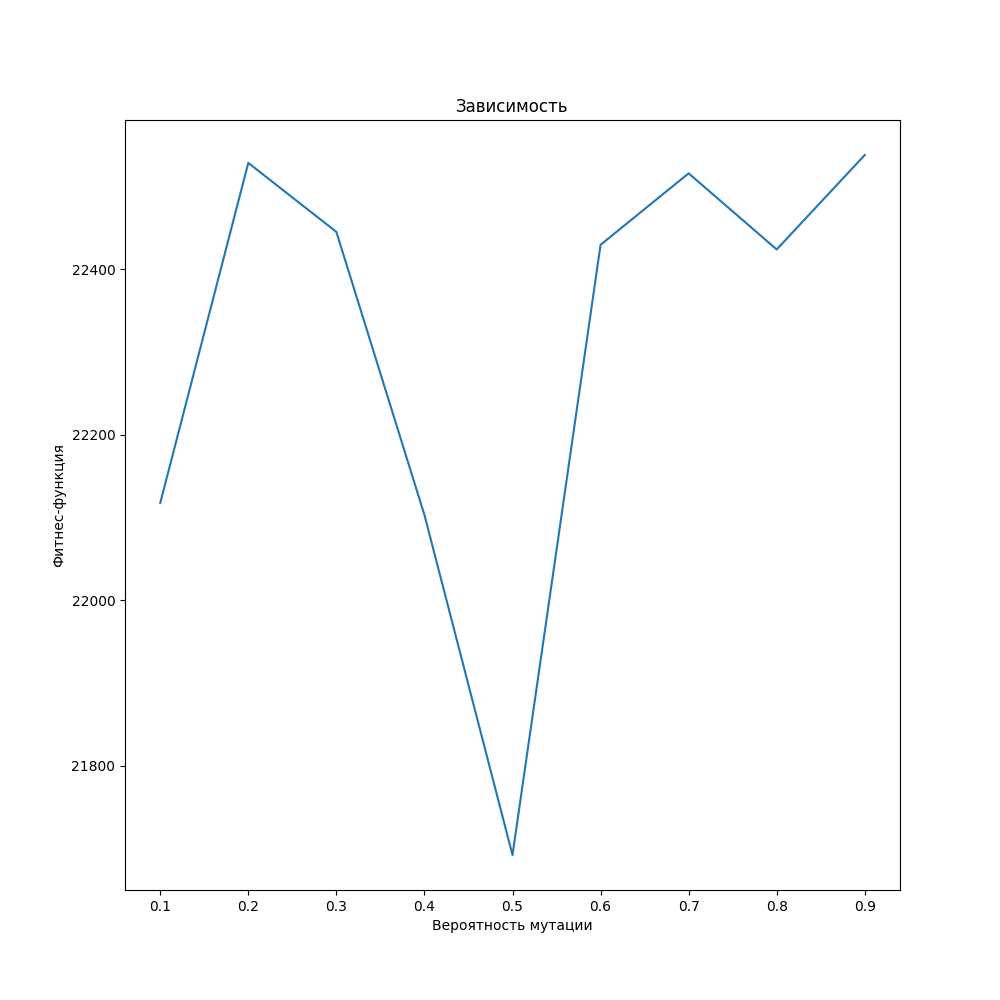
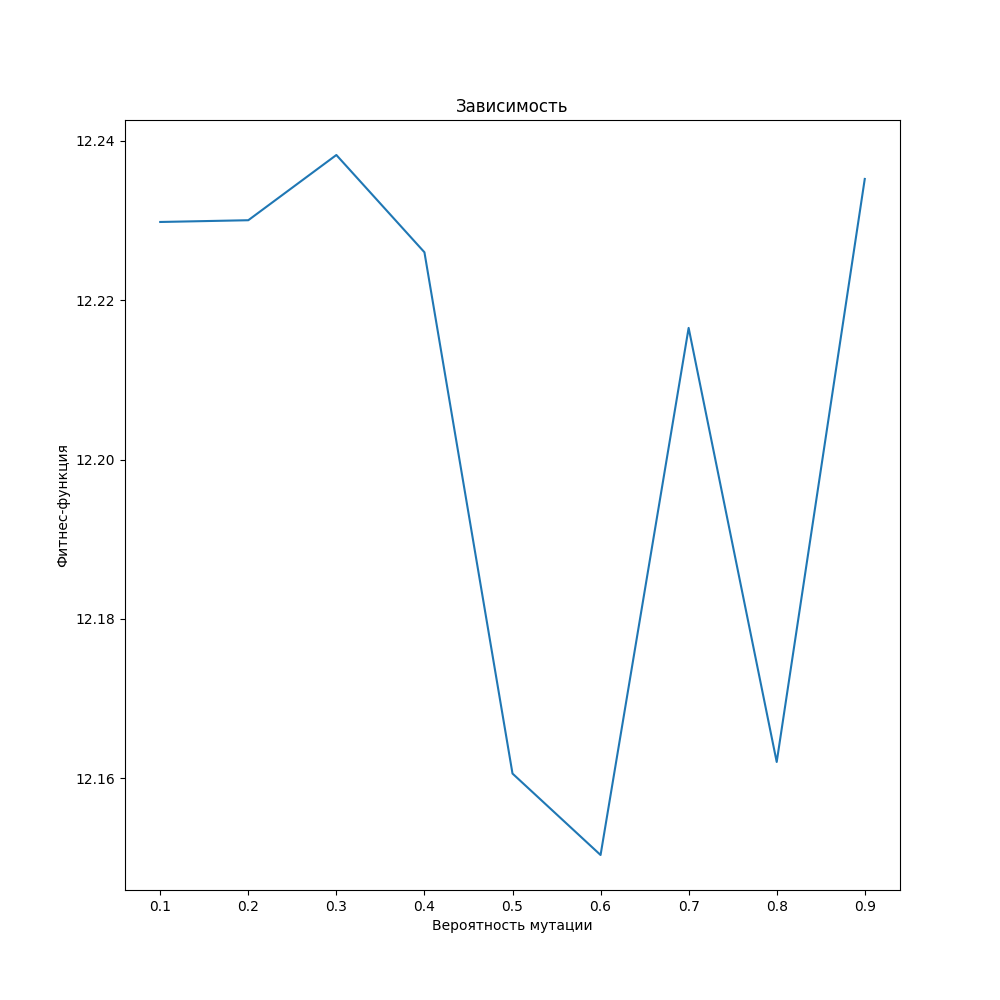
GA2: changed fitness value calculation

diff --git a/GA2/imp_criteria.py b/GA2/imp_criteria.py
@@ -1,50 +1,75 @@
 import numpy as np
-import numpy as np
-from PIL import Image
-import matplotlib.pyplot as plt
-import cv2
-import sys
-from random import randint
-from numpy.random import default_rng
-import random
-# import time
-from tqdm.notebook import tqdm_notebook
-
-rng = default_rng()
-np.random.seed(909)
+import math
 
 from ench import *
 
 
-def count_edges(img_array):
-    edges = cv2.Canny(np.uint8(img_array), threshold1=100, threshold2=200)
-    edge_count = np.count_nonzero(edges)
-    return edge_count
+# -----------------------------------------------------------
+# Функция для расчета суммарной интенсивности краевых
+# пикселей и их количества.
+# Для выделения контуров используются маски оператора Собеля.
+# -----------------------------------------------------------
+@njit(fastmath=True, cache=True, parallel=True)
+def sum_intensity(image):
+    E = 0
+    pix_count = 0
+    sobel_img = image.copy()
+    for i in numba.prange(0, image.shape[0]):
+        for j in range(0, image.shape[1]):
+            if i == 0 or j == 0 or i == image.shape[0] - 1 or j == image.shape[1] - 1:
+                sobel_img[i, j] = 0
+                continue
+            hi = image[i - 1, j + 1] + 2 * image[i, j + 1] + image[i + 1, j + 1] - image[i - 1, j - 1] - 2 * image[
+                i, j - 1] - image[i + 1, j - 1]
+
+            vi = image[i + 1, j + 1] + 2 * image[i + 1, j] + image[i + 1, j - 1] - image[i - 1, j + 1] - 2 * image[
+                i - 1, j] - image[i - 1, j - 1]
+
+            G = round(math.sqrt((hi ** 2) + (vi ** 2)))
+            if (G > 130):
+                pix_count = pix_count + 1
+            E = E + G
+            sobel_img[i, j] = G
+
+    return E, pix_count
 
 
-def fitness_function(population, gray_levels, img_array, freq):
+# -----------------------------------------------------------
+# Вычисление количества краевых пикселей изображения
+# -----------------------------------------------------------
+@njit(fastmath=True, cache=False)
+def calculate_edge_count(image):
+    E, pix_count = sum_intensity(image)
+    return pix_count
+
+
+# -----------------------------------------------------------
+# Вычисление значения фитнес-функции для каждой хромосомы
+# -----------------------------------------------------------
+@njit(fastmath=True, cache=False)
+def calculate_fintess_value(gray_levels, chromosome, image_array):
+    image = create_enhanced_image(gray_levels, chromosome, image_array)
+    E, pix_count = sum_intensity(image)
+    fitness_value = math.log(math.log(E) * pix_count)
+    return fitness_value
+
+
+# -----------------------------------------------------------
+# Вычисляет массив значений фитнес-функции для
+# всей популяции
+# -----------------------------------------------------------
+@njit(fastmath=True, cache=False)
+def fitness_for_all_population(population, gray_levels, img_array):
     fitness = []
     for chromosome in population:
-        fitness.append(fitness_func_for_one(chromosome, gray_levels, img_array, freq))
+        fitness.append(calculate_fintess_value(gray_levels, chromosome, img_array))
     return np.array(fitness)
 
 
-def fitness_func_for_one(chromosome, gray_levels, image_array, freq):
-    enhanced_img_array = create_enhanced_image(gray_levels, chromosome, image_array)
-    edge_count = count_edges(enhanced_img_array)
-
-    intensities = sum([chromosome[i] * freq[i] for i in range(len(chromosome))])
-    return np.log(np.log(intensities)) * edge_count
-
-
-def evaluation(img, best_contrasted_img, equalized):
-    return count_edges(best_contrasted_img), count_edges(equalized), count_edges(img)
-
-
 def image_comparison(image, hist_equalized_img, improved_image):
-    initial_edge_count = count_edges(image)
-    hist_edge_count = count_edges(hist_equalized_img)
-    improved_edge_count = count_edges(improved_image)
+    initial_sum_intensity, initial_edge_count = sum_intensity(image)
+    hist_sum_intensity, hist_edge_count = sum_intensity(hist_equalized_img)
+    improved_sum_intensity, improved_edge_count = sum_intensity(improved_image)
     print("Количество ребер исходного изображения: ", initial_edge_count)
     print("Количество ребер после эквализации гистограммы: ", hist_edge_count)
     print("Количество ребер улучшенного изображения: ", improved_edge_count)

diff --git a/GA2/main.py b/GA2/main.py
@@ -48,7 +48,7 @@ def research_enhancement(path):
                                                         generations_count, copy.deepcopy(population), False)
 
         calculated_parameters = {"image": improved_image, "crossover_rate": c_rate, "fitness": max_fitness,
-                                 "edges_count": count_edges(improved_image)}
+                                 "edges_count": calculate_edge_count(improved_image)}
 
         cross_solutions.append(calculated_parameters)
 
@@ -56,9 +56,8 @@ def research_enhancement(path):
 
     image_array = np.asarray(image)
 
-    # Получаем массив интенсивностей пикселей и их частоту
-    gray_levels, frequency = np.unique(image_array, return_counts=True)
-    gray_levels, gray_levels_len = preparation_ga_parameters(gray_levels)
+    # Получаем массив интенсивностей пикселей
+    gray_levels, gray_levels_len = preparation_ga_parameters(image_array)
 
     example_image_from_initial_population = create_enhanced_image(gray_levels, numba.typed.List(population[0]),
                                                                   image_array)
@@ -70,7 +69,7 @@ def research_enhancement(path):
     show_final_images(image, improved_image, example_image_from_initial_population, hist_equalized_img,
                       'result/crossover-research.png')
 
-    print("Лучший коэффициент кроссовера: %.1f" %best_fitness_cross_solution['crossover_rate'])
+    print("Лучший коэффициент кроссовера: %.1f" % best_fitness_cross_solution['crossover_rate'])
     image_comparison(image, hist_equalized_img, improved_image)
 
     mutation_solutions = []
@@ -82,7 +81,8 @@ def research_enhancement(path):
                                                         generations_count, copy.deepcopy(population), False)
 
         calculated_parameters = {"image": improved_image, "mutation_rate": m_rate, "fitness": max_fitness,
-                                 "edges_count": count_edges(improved_image)}
+                                 "edges_count": calculate_edge_count(improved_image)}
+
         mutation_solutions.append(calculated_parameters)
 
     best_fitness_mutation_solution = max(mutation_solutions, key=lambda x: x['fitness'])
@@ -92,7 +92,7 @@ def research_enhancement(path):
     show_final_images(image, improved_image, example_image_from_initial_population, hist_equalized_img,
                       'result/mutation-research.png')
 
-    print("Лучшая вероятность мутации: %.1f" %best_fitness_mutation_solution['mutation_rate'])
+    print("Лучшая вероятность мутации: %.1f" % best_fitness_mutation_solution['mutation_rate'])
 
     image_comparison(image, hist_equalized_img, improved_image)
 

diff --git a/GA2/gen_alg.py b/GA2/gen_alg.py
@@ -156,17 +156,15 @@ def genetic_algorithm(image, population_size, crossover_rate, mutation_rate,
 
     image_array = np.asarray(image)
 
-    # Получаем массив интенсивностей пикселей и их частоту
-    gray_levels, frequency = np.unique(image_array, return_counts=True)
-
-    gray_levels, gray_levels_len = preparation_ga_parameters(gray_levels)
+    # Получаем массив интенсивностей пикселей
+    gray_levels, gray_levels_len = preparation_ga_parameters(image_array)
 
     new_population = population
 
     fitness_values_array = []
 
     for generation in (range(generations_count)):
-        fitness = fitness_function(population, gray_levels, image_array, frequency)
+        fitness = fitness_for_all_population(population, gray_levels, image_array)
 
         fitness_values_array.append(max(fitness))
 
@@ -181,6 +179,6 @@ def genetic_algorithm(image, population_size, crossover_rate, mutation_rate,
 
     print("---------------")
 
-    fitness = fitness_function(population, gray_levels, image_array, frequency)
+    fitness = fitness_for_all_population(population, gray_levels, image_array)
 
     return get_best_image(new_population, fitness, gray_levels, image_array)

diff --git a/GA2/ench.py b/GA2/ench.py
@@ -15,11 +15,12 @@ def get_all_gray_levels_len(image):
 
 
 # -----------------------------------------------------------
-# Сортировка массива интенсивностей и подсчет количества
+# Получение массива интенсивностей и подсчет количества
 # уровней серого
 # -----------------------------------------------------------
 @njit(fastmath=True, cache=True)
-def preparation_ga_parameters(gray_levels):
+def preparation_ga_parameters(image_array):
+    gray_levels = np.unique(image_array)
     gray_levels.sort()
     gray_levels_len = len(gray_levels)
     return gray_levels, gray_levels_len
